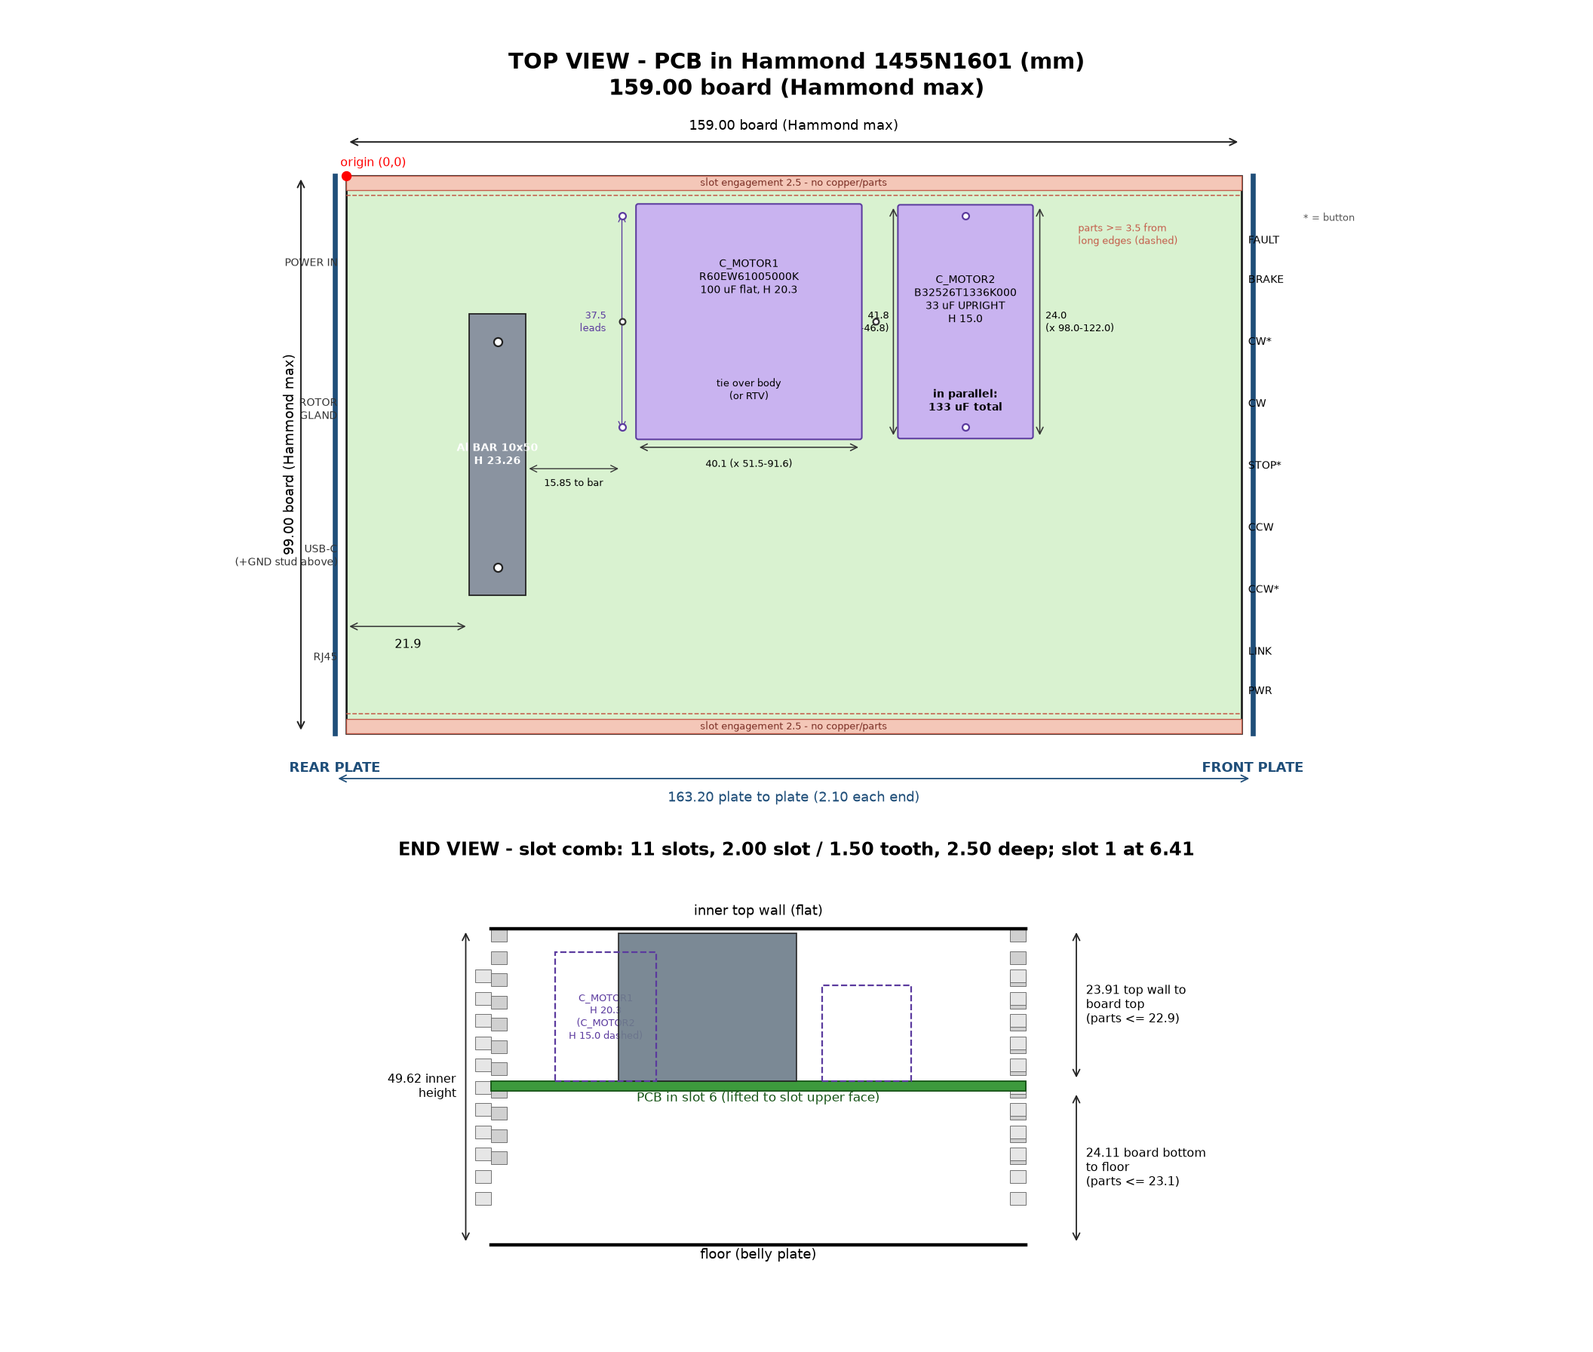
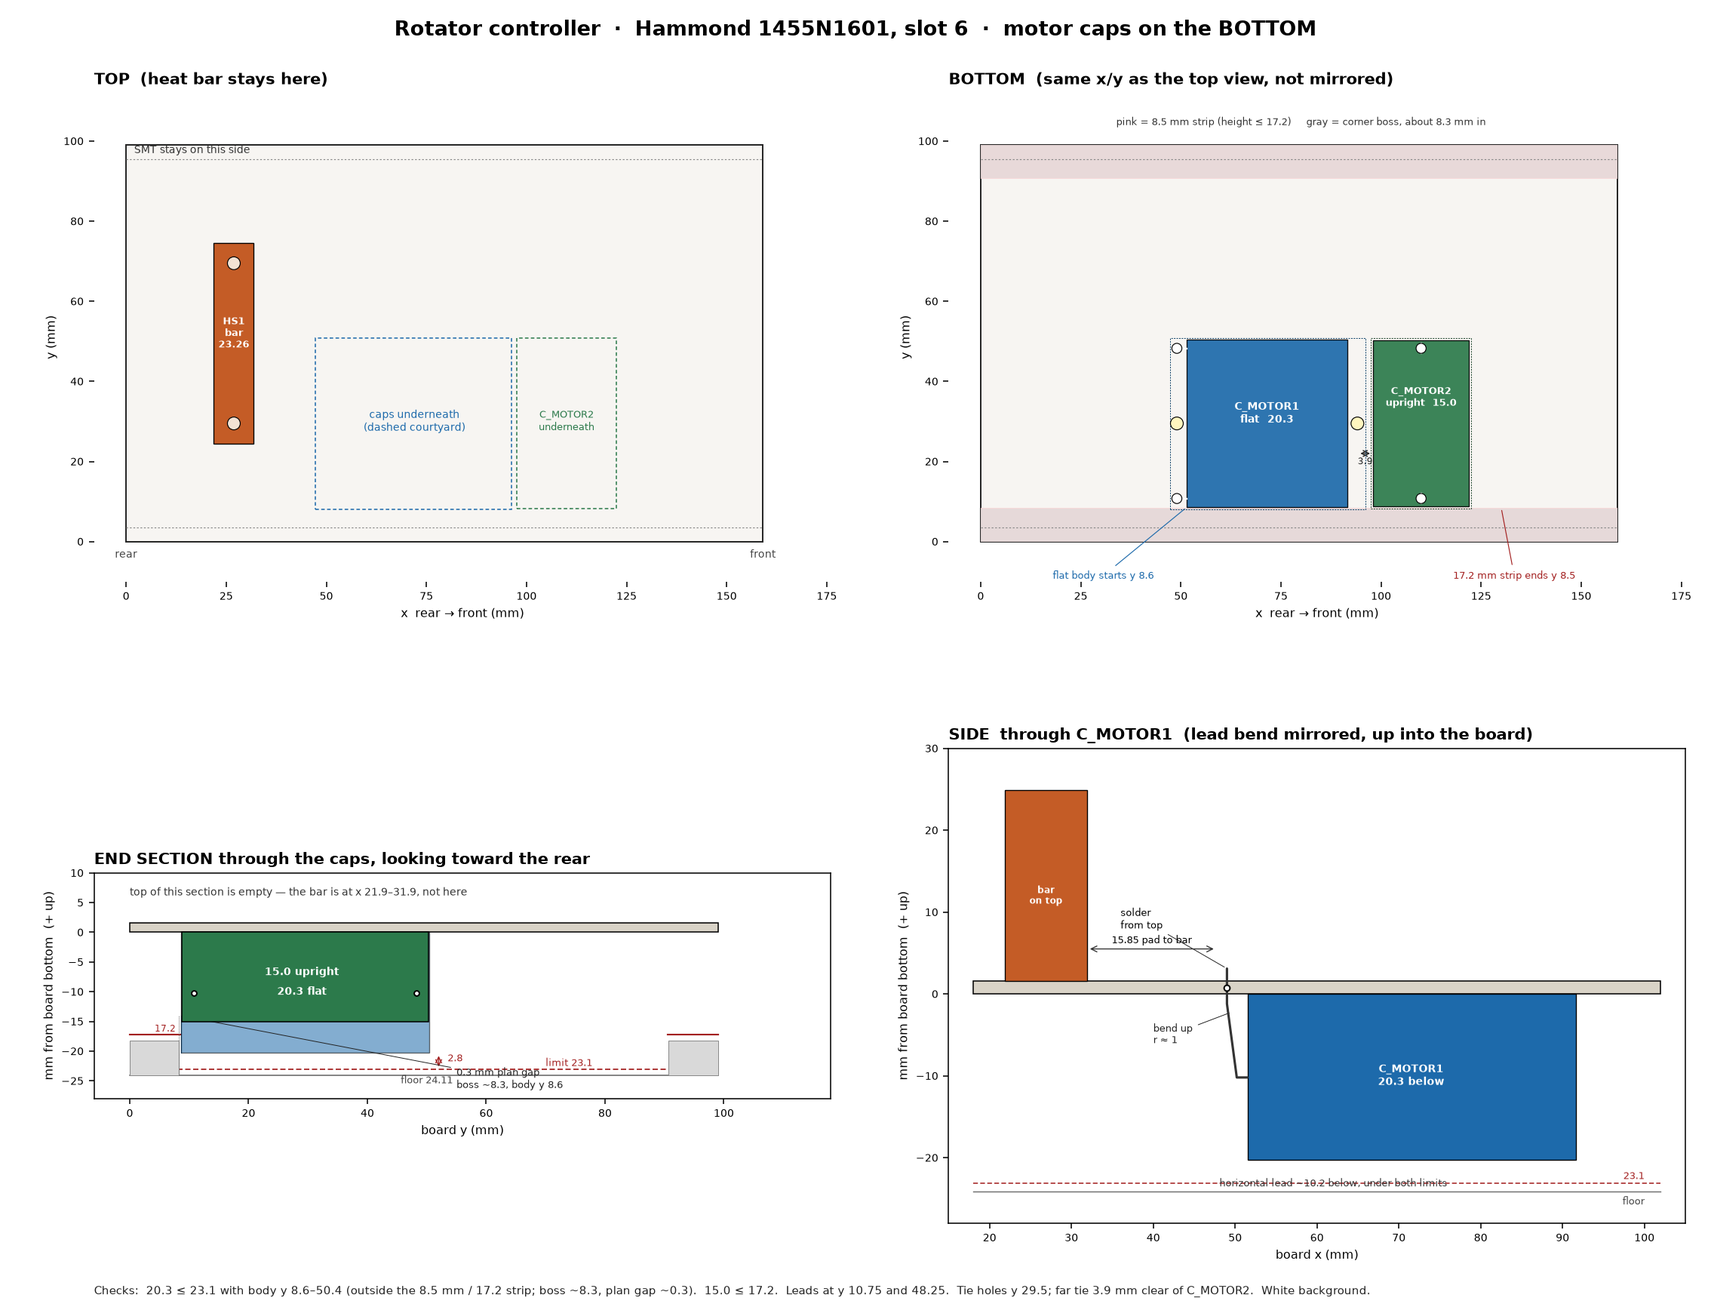
Move the outline motor-run caps to the bottom side.
The top of the Hammond slot-6 board is crowded, so C_MOTOR1 and C_MOTOR2 hang below the board. The heat bar stays on top. Both footprints move to B.Cu, fab and courtyard move to B.Fab and B.CrtYd, and the flat-cap lead bend reverses up into the board. A +3.6 mm shift in +y keeps the 20.3 mm body outside the 8.5 mm bottom-edge strip and the corner bosses.

diff --git a/hardware/controller/mechanical/outline-1455N1601/README.md b/hardware/controller/mechanical/outline-1455N1601/README.md
@@ -1,6 +1,6 @@
 # Rotator controller PCB outline and end panels: Hammond 1455N1601
 
-Generated 2026-10-11 with KiCad 9.0.2. The generators, the downloaded datasheet copies, and the DRC report from that day are not in this repository. The KiCad project below is that board file. `outline.png` is the annotated top view and end view, redrawn here from the dimensions in this note. The front and rear panel sheets that used to sit on User.Drawings (and the comment frames that sat on those sheets) have been removed. Machining drawings are generated from footprint fields ([ADR 0017](../../../../docs/decisions/0017-enclosure-machining-drawings.md)). The pre-layout 1:1 sheets are in [`../panels/preliminary-pre-layout/`](../panels/preliminary-pre-layout/). The hole table below is what that generator is checked against.
+Generated 2026-10-11 with KiCad 9.0.2. The generators, the downloaded datasheet copies, and the DRC report from that day are not in this repository. The KiCad project below is that board file. `outline.png` is the annotated top view, bottom view, and end view, redrawn here from the dimensions in this note. The front and rear panel sheets that used to sit on User.Drawings (and the comment frames that sat on those sheets) have been removed. Machining drawings are generated from footprint fields ([ADR 0017](../../../../docs/decisions/0017-enclosure-machining-drawings.md)). The pre-layout 1:1 sheets are in [`../panels/preliminary-pre-layout/`](../panels/preliminary-pre-layout/). The hole table below is what that generator is checked against.
 
 Status tags: **[V]** read from a manufacturer drawing/page, **[E]** derived or scaled from one, **[U]** unverified/assumed, **[TBD]** part not chosen yet.
 
@@ -10,8 +10,8 @@ Heights chained from Hammond typical dimensions are about **±0.6 mm** and are n
 
 | File | What |
 |---|---|
-| `RotatorController-1455N1601-outline.kicad_pcb` (+ `.kicad_pro`, `.kicad_dru`) | KiCad 9 board: Edge.Cuts, keep-outs, bar footprint, motor caps, end-plate plane markers, height-limit notes, end view. No front/rear panel sheets. 4-layer stackup + JLCPCB rules. `kicad-cli` 9.0.9 DRC after that removal: 0 violations, 0 unconnected. |
-| `outline.png` | Annotated top view + end view |
+| `RotatorController-1455N1601-outline.kicad_pcb` (+ `.kicad_pro`, `.kicad_dru`) | KiCad 9 board: Edge.Cuts, keep-outs, bar footprint, motor caps on the bottom, end-plate plane markers, height-limit notes, end view. No front/rear panel sheets. 4-layer stackup + JLCPCB rules. `kicad-cli` 9.0.9 DRC after the caps moved to the bottom: 0 violations, 0 unconnected. |
+| `outline.png` | Annotated top view, bottom view, and end view (motor caps on the bottom) |
 | [`../panels/preliminary-pre-layout/`](../panels/preliminary-pre-layout/) | Pre-layout 1:1 panel sheets (SVG/PDF, print at 100 %, 50 mm check bar) and phone PNGs. Superseded by `gen_machining.py` once the layout has `Panel` fields. |
 
 ## Sources
@@ -76,34 +76,39 @@ Board minimums: clearance 0.127, track 0.127, via Ø0.45/0.20 drill, annular 0.1
 
 Target from the CDE schematics in the V2 repo: 130–156 µF, 50 VAC. The proven V2 cap (100 µF) is about 23 % low on its own, so a 33 µF cap goes in parallel. **Total 133 µF nominal** (±10 % each, so 120–146 µF). Both are 100 VDC / 63 VAC metallized polyester. The motor sees about 26–30 VAC (roughly 37–44 VAC across the cap).
 
-| Ref | Part | Value | Max body (mm) | Mount | Height above PCB |
+Both caps are on the **bottom**. The top is crowded, and the heat bar stays there. Slot 6 leaves 24.11 mm under the board, so the bottom limit is 23.1 mm, and 17.2 mm within 8.5 mm of either long edge (bottom corner bosses). SMT stays on the top only (one-side board assembly). Every through-hole part, including these two, is hand-soldered from the top.
+
+| Ref | Part | Value | Max body (mm) | Mount | Height below PCB |
 |---|---|---|---|---|---|
-| C_MOTOR1 | KEMET **R60EW61005000K** (Digi-Key 399-13010-ND), proven on V2 | 100 µF 100 VDC / 63 VAC | 41.8 x 20.3 x 40.1 | lying flat, 25 mm leads bent down | 20.3 (limit 22.9) |
-| C_MOTOR2 | TDK **B32526T1336K000** (Digi-Key 495-4582-ND, Mouser 871-B32526T1336K000) | 33 µF 100 VDC / 63 VAC | 24.0 x 15.0 x 41.5 (w x h x l) | **upright**, leads straight down | 15.0 (limit 22.9) |
+| C_MOTOR1 | KEMET **R60EW61005000K** (Digi-Key 399-13010-ND), proven on V2 | 100 µF 100 VDC / 63 VAC | 41.8 x 20.3 x 40.1 | lying flat on the bottom, 25 mm leads bent up into the board | 20.3 (limit 23.1; body starts at y 8.6, outside the 8.5 mm / 17.2 strip) |
+| C_MOTOR2 | TDK **B32526T1336K000** (Digi-Key 495-4582-ND, Mouser 871-B32526T1336K000) | 33 µF 100 VDC / 63 VAC | 24.0 x 15.0 x 41.5 (w x h x l) | **upright** on the bottom, leads straight up through the board | 15.0 (under 17.2 and under 23.1) |
 
-Sources: KEMET F3103 R60 datasheet (above). TDK B32520…B32529 datasheet, https://www.tdk-electronics.tdk.com/inf/20/20/db/fc_2009/B32520_529.pdf (local copy not imported), B32526 table "100 VDC 63 VAC, 33 µF, 24.0 × 15.0 × 41.5, B32526T1336+***" (max dimensions), lead spacing 37.5 ±0.4, lead d1 1.0 ±0.05, untaped lead length 6 ±1. The short TDK leads are why C_MOTOR2 stands up: there is not enough lead to lie it flat and bend down.
+Sources: KEMET F3103 R60 datasheet (above). TDK B32520…B32529 datasheet, https://www.tdk-electronics.tdk.com/inf/20/20/db/fc_2009/B32520_529.pdf (local copy not imported), B32526 table "100 VDC 63 VAC, 33 µF, 24.0 × 15.0 × 41.5, B32526T1336+***" (max dimensions), lead spacing 37.5 ±0.4, lead d1 1.0 ±0.05, untaped lead length 6 ±1. The short TDK leads are why C_MOTOR2 stands up: there is not enough lead to lie it flat and bend up into the board.
 
-Footprints: `C_MOTOR1` (`C_Rect_KEMET_R60_P37.5_L41.5_W20_H40_Flat`) and `C_MOTOR2` (`C_Rect_TDK_B32526T_P37.5_L41.5_W24_H15_Upright`), bodies on F.Fab and User.Drawings, courtyards on F.CrtYd, notes on User.Comments. Pads are numbered so that **pad 1–pad 1 and pad 2–pad 2** are wired in parallel; both lead pairs sit on the same y (7.15 / 44.65), so the two parallel traces run straight along x.
+Footprints: `C_MOTOR1` (`C_Rect_KEMET_R60_P37.5_L41.5_W20_H40_Flat`) and `C_MOTOR2` (`C_Rect_TDK_B32526T_P37.5_L41.5_W24_H15_Upright`) are on B.Cu. Bodies are on B.Fab and User.Drawings, courtyards on B.CrtYd, notes on User.Comments. Pads stay through-hole (`*.Cu`). The plan did not flip left-right: each body stays on the +x side of its leads, away from the triacs. Pads are numbered so that **pad 1–pad 1 and pad 2–pad 2** are wired in parallel; both lead pairs sit on the same y (10.75 / 48.25), so the two parallel traces run straight along x. Both anchors moved +3.6 mm in +y from the first top-side placement so the flat body clears the bottom bosses.
 
 | Item | Board coordinates (mm, origin = rear-left corner) |
 |---|---|
-| C_MOTOR1 body (flat) | x 51.5–91.6, y 5.0–46.8. The 41.5 x 40 face is on the board; the lead face (41.5 x 20) is at x = 51.5, facing the triacs |
-| C_MOTOR1 lead holes, PTH 1.3 / pad 2.5 | (49.0, 7.15) and (49.0, 44.65), 37.5 apart, 2.5 outboard of the lead face |
-| C_MOTOR1 cable-tie holes, NPTH 3.2 | (49.0, 25.9) and (94.1, 25.9); 2.5 mm tie over the body, or RTV instead |
-| C_MOTOR1 courtyard | x 47.25–96.2, y 4.5–47.3 |
-| C_MOTOR2 body (upright) | x 98.0–122.0, y 5.15–46.65 (24 x 41.5 footprint, 15.0 tall) |
-| C_MOTOR2 lead holes, PTH 1.3 / pad 2.5 | (110.0, 7.15) and (110.0, 44.65), 37.5 apart, centred in the 24 mm thickness |
-| C_MOTOR2 courtyard | x 97.5–122.5, y 4.65–47.15 |
-| Whole cap zone | **x 47.25–122.5, y 4.5–47.3** |
-| Clearances | C_MOTOR1 lead pad edge to bar front face 15.85 (courtyard 15.35); C_MOTOR2 is 66 mm from the bar. Courtyards 1.3 apart (C_MOTOR1 far tie hole at x 94.1 still has 3.9 mm to the C_MOTOR2 body for the tie). Long-edge strip ends y 3.5; courtyards start y 4.5. Front buttons/LEDs start about x 139. Heights 20.3 and 15.0 vs 22.9 limit |
+| C_MOTOR1 body (flat) | x 51.5–91.6, y 8.6–50.4. The 41.5 x 40 face is on the board; the lead face (41.5 x 20) is at x = 51.5, facing the triacs |
+| C_MOTOR1 lead holes, PTH 1.3 / pad 2.5 | (49.0, 10.75) and (49.0, 48.25), 37.5 apart, 2.5 outboard of the lead face |
+| C_MOTOR1 cable-tie holes, NPTH 3.2 | (49.0, 29.5) and (94.1, 29.5); 2.5 mm tie around the body, or RTV instead |
+| C_MOTOR1 courtyard | x 47.25–96.2, y 8.1–50.9 |
+| C_MOTOR2 body (upright) | x 98.0–122.0, y 8.75–50.25 (24 x 41.5 footprint, 15.0 tall) |
+| C_MOTOR2 lead holes, PTH 1.3 / pad 2.5 | (110.0, 10.75) and (110.0, 48.25), 37.5 apart, centred in the 24 mm thickness |
+| C_MOTOR2 courtyard | x 97.5–122.5, y 8.25–50.75 |
+| Whole cap zone | **x 47.25–122.5, y 8.1–50.9** |
+| Clearances | C_MOTOR1 lead pad edge to bar front face 15.85 (courtyard 15.35); C_MOTOR2 is 66 mm from the bar. Courtyards 1.3 apart (C_MOTOR1 far tie hole at x 94.1 still has 3.9 mm to the C_MOTOR2 body for the tie). Bottom limit 23.1; the 17.2 strip is y 0–8.5 and y 90.5–99. C_MOTOR1 is 20.3, so the body starts at y 8.6 (courtyard y 8.1). Bottom bosses reach about 8.3 mm in from the slot and about 5.9 mm above the floor; the body clears them by about 0.3 mm in plan and does not hang into them. Far body edge y 50.4 vs the far strip at y 90.5. C_MOTOR2 is 15.0, under both limits, body y 8.75–50.25. Front buttons/LEDs start about x 139. The heat bar stays on the top |
 
-C_MOTOR1 lead bend: the leads leave the 20.3 face at mid-height, about 10.2 above the PCB. They run 2.5 mm outboard, then bend 90° down: inside radius about 1 mm, with at least 1 mm straight next to the body. Each lead needs about 2.5 + 10.2 + 1.6 board + 1.5 protrusion ≈ 16 mm of its ~25 mm length.
+C_MOTOR1 lead bend (the old top-side bend, mirrored): the leads leave the 20.3 face at mid-height, about 10.2 mm **below** the PCB, at y = 10.75 and y = 48.25. Both of those are more than 8.5 mm from a long edge, and 10.2 mm is under the 17.2 mm strip limit as well as the 23.1 mm open limit. They run 2.5 mm outboard (toward the triacs), then bend 90° **up** into the board: inside radius about 1 mm, with at least 1 mm straight next to the body. Each lead needs about 2.5 + 10.2 + 1.6 board + 1.5 protrusion on the top ≈ 16 mm of its ~25 mm length. Solder that protrusion from the top.
 
-C_MOTOR2: seat it on the board, leads straight through (6 ±1 mm leads, 1.6 mm board). An RTV dot at the base is optional.
+C_MOTOR2: seat the body on the bottom of the board. The 6 ±1 mm leads go straight up through the 1.6 mm board, leaving about 4.4 ±1 mm on the top to solder. An RTV dot at the base, on the bottom, is optional.
+
+Cable ties: the two NPTH 3.2 holes are on the body's y centre (y 29.5). A 2.5 mm tie around the body stays inside the body outline, so it does not reach the 8.5 mm boss strip (the body starts at y 8.6). The far hole at x 94.1 is still 3.9 mm from the C_MOTOR2 body.
 
 Placement reasons:
+- The top is crowded. Both caps hang on the bottom. SMT stays on the top. The heat bar stays on the top.
 - Both caps sit on the AC (edge-A, y = 0) side with the power-input terminal, in front of the triac row, so the /Left–/Right motor leads stay short.
-- y 47.3–95.5 stays free for logic, plus x 122.5–139 on the y < 47 side.
+- On the bottom, y 50.9–95.5 stays free, plus x 122.5–139 on the y < 50.9 side. The top of this plan area is free of these caps.
 - The height-limit note box is at y 78.5–89.5, clear of both caps.
 
 ### Why this pair (price check 2026-10-11, about 8:40 PM ET)
@@ -112,7 +117,7 @@ Digi-Key figures were read from digikey.com product pages. Mouser blocks automat
 
 | Option | Parts | µF | VAC | 1 set | 3 sets | Fits? | Notes |
 |---|---|---|---|---|---|---|---|
-| **b (chosen)** | R60EW61005000K + B32526T1336K000 | 133 | 63 | $39.50 DK ($25.97 + $13.53) | $118.50 DK | yes: flat 20.3 + upright 15.0 | DK stock 1,136 / 125. Mouser 33 µF: $11.19, 1,033 stock [unverified]. If you already have spare R60EWs (you bought 9), it is $13.53 per controller |
+| **b (chosen)** | R60EW61005000K + B32526T1336K000 | 133 | 63 | $39.50 DK ($25.97 + $13.53) | $118.50 DK | yes: flat 20.3 + upright 15.0, on the bottom (limits 23.1 and 17.2) | DK stock 1,136 / 125. Mouser 33 µF: $11.19, 1,033 stock [unverified]. If you already have spare R60EWs (you bought 9), it is $13.53 per controller |
 | b-alt (runner-up) | R60EW61005000K + B32526T1476K000 (47 µF) | 147 | 63 | $42.73 DK ($25.97 + $16.76) | $128.19 DK | yes: upright 19.0, same 24 x 41.5 footprint | Centred in 130–156, but only 34 in stock at DK |
 | b-flat | R60EW61005000K + B32524Q1476K000 (47 µF, 27.5 pitch) | 147 | 63 | $39.43 DK | $118.29 DK | **no**: 21 x 31 x 31.5; upright 31 too tall, and 6 mm leads too short to lay flat | Cheapest on paper by 7 cents |
 | a | 2x R60EW61005000K | 200 | 63 | $51.94 DK | $155.82 DK | yes (2 flat, ~85 x 40) | 200 µF is 28 % over CDE max; too much phase shift. Rejected |
@@ -167,7 +172,7 @@ Vertical tolerance is about ±0.6 mm: extrusion inner height ±0.56, plus the sl
 
 - **Recommended:** start the new F407 layout from this file. Copy the `.kicad_pcb`, `.kicad_pro` and `.kicad_dru` into the project folder renamed to the project name (or File → Open and Save As), then Tools → Update PCB from Schematic. Stackup, rules, keep-outs, the bar, the caps, and the height notes come along. Panel holes do not: add `Panel` / `PanelZ` / `PanelCutout` on the footprints and run `gen_machining.py` (ADR 0017).
 - **Into the existing V4 board:**
-  1. Open this file in pcbnew, set the layer filter, select Edge.Cuts + the remaining User.Drawings (end view, board dimensions, end-plate plane markers) + User.Comments + F.Fab items + the rule areas + footprint HS1, Ctrl+C. Pick the reference point at the origin cross (rear-left corner).
+  1. Open this file in pcbnew, set the layer filter, select Edge.Cuts + the remaining User.Drawings (end view, board dimensions, end-plate plane markers) + User.Comments + F.Fab items + B.Fab and B.CrtYd (the motor caps) + the rule areas + footprints HS1, C_MOTOR1, and C_MOTOR2, Ctrl+C. Pick the reference point at the origin cross (rear-left corner).
   2. In V4, delete the old Edge.Cuts rectangle and the old Dwgs.User panel drawings first.
   3. Ctrl+V, snapping the reference to the board corner you want.
   4. Then Board Setup → Board Stackup → set 4 layers / Import Settings from this `.kicad_pro` for rules and stackup.

diff --git a/docs/design/hardware-requirements.md b/docs/design/hardware-requirements.md
@@ -597,9 +597,9 @@ A 10-pin 1.27 mm Cortex header would be a part on every board (an LCSC line if S
 
 The drawings are in `hardware/controller/mechanical/`. The V4 KiCad project is not modified.
 
-- **Board:** 159.00 × 99.00 mm, 1.6 mm, square corners, slot 6 of the 1455N1601. Inner top to board top 23.91 mm, so parts on top stay within 22.9 mm. Board bottom to the floor is 24.11 mm. Long-edge copper keep-out 2.5 mm; component bodies stay 3.5 mm off those edges.
+- **Board:** 159.00 × 99.00 mm, 1.6 mm, square corners, slot 6 of the 1455N1601. Inner top to board top 23.91 mm, so parts on top stay within 22.9 mm. Board bottom to the floor is 24.11 mm, so parts on the bottom stay within 23.1 mm, and within 17.2 mm inside 8.5 mm of the long edges. Long-edge copper keep-out 2.5 mm; component bodies stay 3.5 mm off those edges.
 - **Triac bar:** 10 × 50 mm at board x 21.9–31.9, y 24.5–74.5. Top-wall drills Ø3.4 at enclosure x = 29 from the rear-plate inner face, y = ±20.
-- **Motor run cap (ADR 0016):** KEMET R60EW61005000K, 100 µF, lying flat (height 20.3 mm), in parallel with TDK B32526T1336K000, 33 µF, upright (height 15.0 mm). Total 133 µF nominal, inside the CDE 130–156 µF range. Both are 100 VDC / 63 VAC and are through-hole. The zone is board x 47.25–122.5, y 4.5–47.3.
+- **Motor run cap (ADR 0016):** KEMET R60EW61005000K, 100 µF, lying flat on the bottom (height 20.3 mm), in parallel with TDK B32526T1336K000, 33 µF, upright on the bottom (height 15.0 mm). Total 133 µF nominal, inside the CDE 130–156 µF range. Both are 100 VDC / 63 VAC and are through-hole, hand-soldered from the top. The zone is board x 47.25–122.5, y 8.1–50.9. The flat body starts at y 8.6 so it stays outside the 8.5 mm / 17.2 mm bottom-edge strip and the corner bosses. The heat bar stays on the top. SMT stays on the top.
 - **Front plate:** CCW, STOP, CW (Ø6.5) and six Dialight 551-xx07F holes (Ø4.0). No light pipes. LED functions are TBD.
 - **Rear plate:** 26 VAC Anderson Powerpoles (grey + black), M16 rotor gland (Ø16.3), USB-C, ground stud, Pulse J0011D01BNL cutout. The Powerpole opening defaults to a pigtail gland (Ø16.3, center 11 mm above the board). A 2-position panel-mount bracket is the other option and its cutout is TBD (ADR 0018). The rotor gland, USB-C, and the stud are still TBD on the drawing.
 - **Tolerance:** slot heights are chained from Hammond typical dimensions and are about ±0.6 mm unverified. Test-fit one board in a box before drilling a batch.

diff --git a/docs/decisions/0016-motor-run-capacitor.md b/docs/decisions/0016-motor-run-capacitor.md
@@ -14,6 +14,9 @@ in this voltage class is taller than that.
 The parts check and the placement coordinates are in
 `hardware/controller/mechanical/outline-1455N1601/README.md`. Prices
 there were read on 2026-10-11. Mouser stock was not confirmed live.
+The pair was first drawn on the top. On 2026-10-20 both caps moved
+to the bottom: the top is crowded, and slot 6 has 23.1 mm under the
+board (17.2 mm within 8.5 mm of the long edges).
 
 ## Decision
 
@@ -24,8 +27,8 @@ roughly 37–44 VAC. Both are through-hole. The owner hand-solders them
 
 | Ref | Part | Mount | Height |
 |---|---|---|---|
-| C_MOTOR1 | KEMET R60EW61005000K, 100 µF. Digi-Key 399-13010-ND. Proven on V2 | Lying flat. Leads bent down | 20.3 mm (limit 22.9) |
-| C_MOTOR2 | TDK B32526T1336K000, 33 µF. Digi-Key 495-4582-ND. Mouser 871-B32526T1336K000, unverified | Upright. The 6 mm leads are too short to lay it flat | 15.0 mm |
+| C_MOTOR1 | KEMET R60EW61005000K, 100 µF. Digi-Key 399-13010-ND. Proven on V2 | Bottom, lying flat. Leads bent up into the board. Soldered from the top | 20.3 mm (bottom limit 23.1; body starts at y 8.6, outside the 8.5 mm / 17.2 strip) |
+| C_MOTOR2 | TDK B32526T1336K000, 33 µF. Digi-Key 495-4582-ND. Mouser 871-B32526T1336K000, unverified | Bottom, upright. The 6 mm leads are too short to lay it flat. They go straight up; solder from the top | 15.0 mm (under 17.2 and under 23.1) |
 
 Pad 1 ties to pad 1 and pad 2 to pad 2. ±10 % on each part gives
 about 120–146 µF.
@@ -40,8 +43,10 @@ off. The catalog still wants the placement to be configurable.
 
 ## Consequences
 
-The outline board reserves x 47.25–122.5, y 4.5–47.3 for this pair,
-on the same edge as the power inlet and in front of the triac bar.
+The outline board reserves x 47.25–122.5, y 8.1–50.9 for this pair,
+on the bottom, on the same edge as the power inlet and in front of
+the triac bar. The heat bar stays on the top. SMT stays on the top.
 The V4 KiCad project is not edited. The next layout copies these
-footprints. Symbols get a `Mouser` field once that order number is
-confirmed. The KEMET Mouser number was not found on 2026-10-11.
+footprints onto B.Cu, with B.Fab and B.CrtYd. Symbols get a `Mouser`
+field once that order number is confirmed. The KEMET Mouser number
+was not found on 2026-10-11.

diff --git a/hardware/controller/mechanical/README.md b/hardware/controller/mechanical/README.md
@@ -19,7 +19,7 @@ Test-fit one board in a box before drilling a batch.
 |---|---|
 | [RotatorController-1455N1601-outline.kicad_pcb](outline-1455N1601/RotatorController-1455N1601-outline.kicad_pcb) | Edge.Cuts, slot keep-outs, triac-bar zone, motor-cap zone, end-plate plane markers, height-limit notes. Not the V4 board. The front and rear panel sheets are not on this board. |
 | [`.kicad_pro`](outline-1455N1601/RotatorController-1455N1601-outline.kicad_pro) / [`.kicad_dru`](outline-1455N1601/RotatorController-1455N1601-outline.kicad_dru) | KiCad 9 project and JLCPCB rule file |
-| [outline.png](outline-1455N1601/outline.png) | Top view and end view |
+| [outline.png](outline-1455N1601/outline.png) | Top view, bottom view, and end view (motor caps on the bottom) |
 | [README](outline-1455N1601/README.md) | Dimensions, sources, and what is still unverified |
 
 The long edges have a 2.5 mm copper keep-out and a 3.5 mm component-body
